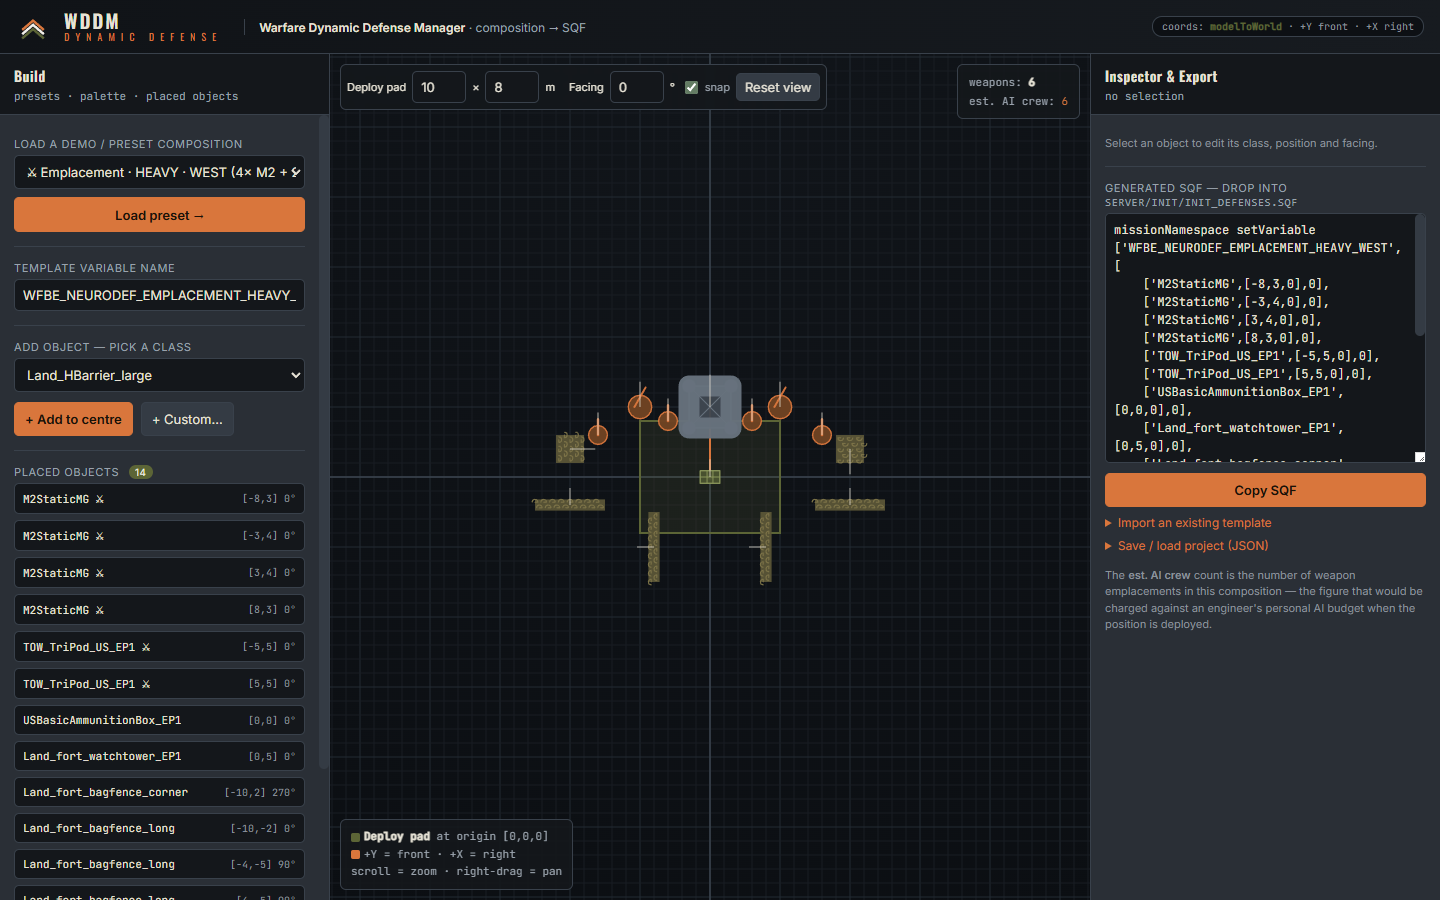
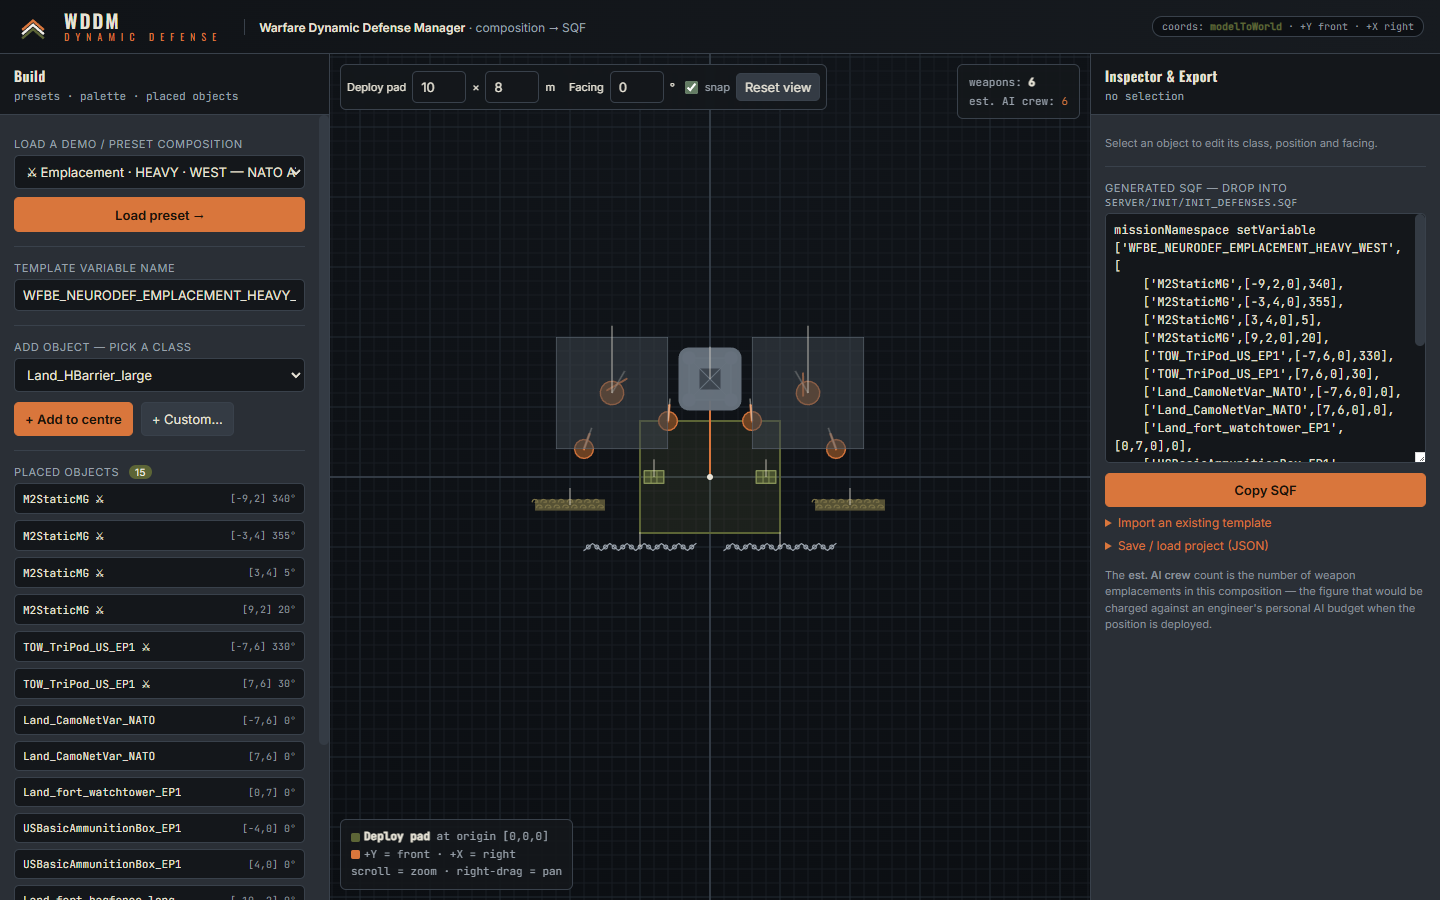
Rework all 16 presets to Cold War doctrine layouts
NATO/BLUFOR: dispersed & concealed — staggered guns in depth, camo nets
over high-value weapons, flank TOW ATGMs for oblique shots, thin wire.
WarPac/OPFOR: massed & belted — clustered guns in tight arcs, H-barrier
revetment boxes, deep frontal obstacle belts (wire + Czech hedgehogs).
East AT teched LIGHT SPG-9 -> HEAVY Metis. Gun counts unchanged so the
crew/AI-budget contract holds (AA/ARTY 2->4, EMP 3->6, CP 1->3).

diff --git a/index.html b/index.html
@@ -305,120 +305,122 @@ const PRESETS = {
     ['Land_HBarrier_large',[-9.5,2.5,0],90],['Land_HBarrier_large',[5,13,0],180],['Land_HBarrier_large',[-6,13,0],180]
   ]},
   // ===== AA BATTERY =====
-  aa_light_west: { name:'⚔ AA Battery · LIGHT · WEST (2× Stinger)', tpl:'WFBE_NEURODEF_AABATTERY_LIGHT_WEST', w:6, d:6, objs:[
-    ['Stinger_Pod_US_EP1',[-4,4,0],0],['Stinger_Pod_US_EP1',[4,4,0],0],
-    ['USLaunchersBox_EP1',[-4,1,0],0],['USLaunchersBox_EP1',[4,1,0],0],
-    ['Land_fort_bagfence_long',[-8,3,0],90],['Land_fort_bagfence_long',[8,3,0],90],
-    ['Land_fort_bagfence_long',[-4,-3,0],0],['Land_fort_bagfence_long',[4,-3,0],0],
-    ['Land_CamoNetVar_NATO',[0,4,0],0]
+  // ===== AA BATTERY =====  (NATO dispersed+concealed / WarPac massed+belted)
+  aa_light_west: { name:'⚔ AA · LIGHT · WEST — NATO dispersed Stinger', tpl:'WFBE_NEURODEF_AABATTERY_LIGHT_WEST', w:6, d:6, objs:[
+    ['Stinger_Pod_US_EP1',[-6,5,0],340],['Stinger_Pod_US_EP1',[6,5,0],20],
+    ['Land_fort_bagfence_round',[-6,5,0],0],['Land_fort_bagfence_round',[6,5,0],0],
+    ['USLaunchersBox_EP1',[-6,1,0],0],['USLaunchersBox_EP1',[6,1,0],0],
+    ['Land_CamoNetVar_NATO',[0,5,0],0],
+    ['Land_Razorwire',[-5,-3,0],0],['Land_Razorwire',[5,-3,0],0]
   ]},
-  aa_light_east: { name:'⚔ AA Battery · LIGHT · EAST (ZU-23 + Igla)', tpl:'WFBE_NEURODEF_AABATTERY_LIGHT_EAST', w:6, d:6, objs:[
-    ['ZU23_TK_EP1',[-5,4,0],0],['Igla_AA_pod_TK_EP1',[5,4,0],0],
-    ['TKVehicleBox_EP1',[-5,1,0],0],['TKVehicleBox_EP1',[5,1,0],0],
-    ['Land_fort_bagfence_long',[-9,3,0],90],['Land_fort_bagfence_long',[9,3,0],90],
-    ['Land_fort_bagfence_long',[-4,-6,0],0],['Land_fort_bagfence_long',[4,-6,0],0]
-  ]},
-  aa_heavy_west: { name:'⚔ AA Battery · HEAVY · WEST (4× Stinger)', tpl:'WFBE_NEURODEF_AABATTERY_HEAVY_WEST', w:8, d:8, objs:[
-    ['Stinger_Pod_US_EP1',[-6,5,0],0],['Stinger_Pod_US_EP1',[-2,6,0],0],['Stinger_Pod_US_EP1',[2,6,0],0],['Stinger_Pod_US_EP1',[6,5,0],0],
-    ['USLaunchersBox_EP1',[-4,1,0],0],['USLaunchersBox_EP1',[4,1,0],0],
-    ['Land_HBarrier_large',[-10,3,0],90],['Land_HBarrier_large',[10,3,0],90],
-    ['Land_HBarrier_large',[-5,-4,0],0],['Land_HBarrier_large',[5,-4,0],0],
-    ['Land_CamoNetVar_NATO',[0,5,0],0]
-  ]},
-  aa_heavy_east: { name:'⚔ AA Battery · HEAVY · EAST (2× ZU-23 + 2× Igla)', tpl:'WFBE_NEURODEF_AABATTERY_HEAVY_EAST', w:8, d:8, objs:[
-    ['ZU23_TK_EP1',[-7,5,0],0],['ZU23_TK_EP1',[7,5,0],0],['Igla_AA_pod_TK_EP1',[-3,6,0],0],['Igla_AA_pod_TK_EP1',[3,6,0],0],
+  aa_light_east: { name:'⚔ AA · LIGHT · EAST — WarPac ZU-23 + Igla belt', tpl:'WFBE_NEURODEF_AABATTERY_LIGHT_EAST', w:6, d:6, objs:[
+    ['ZU23_TK_EP1',[-4,4,0],0],['Igla_AA_pod_TK_EP1',[4,5,0],0],
     ['TKVehicleBox_EP1',[-4,1,0],0],['TKVehicleBox_EP1',[4,1,0],0],
-    ['Land_HBarrier_large',[-11,3,0],90],['Land_HBarrier_large',[11,3,0],90],
-    ['Land_HBarrier_large',[-5,-4,0],0],['Land_HBarrier_large',[5,-4,0],0]
+    ['Land_HBarrier_large',[-8,3,0],90],['Land_HBarrier_large',[8,3,0],90],['Land_HBarrier_large',[0,8,0],0],
+    ['Land_Razorwire',[-4,-3,0],0],['Land_Razorwire',[4,-3,0],0],['Hedgehog',[0,-3,0],0]
   ]},
-  // ===== ARTILLERY BATTERY =====
-  arty_light_west: { name:'⚔ Artillery · LIGHT · WEST (2× M119)', tpl:'WFBE_NEURODEF_ARTYBATTERY_LIGHT_WEST', w:8, d:8, objs:[
-    ['M119_US_EP1',[-5,3,0],0],['M119_US_EP1',[5,3,0],0],
-    ['USBasicAmmunitionBox_EP1',[-5,-1,0],0],['USBasicAmmunitionBox_EP1',[5,-1,0],0],
-    ['Land_HBarrier_large',[-11,2,0],90],['Land_HBarrier_large',[-11,8,0],90],
-    ['Land_HBarrier_large',[11,2,0],90],['Land_HBarrier_large',[11,8,0],90],
-    ['Land_HBarrier_large',[-6,-5,0],0],['Land_HBarrier_large',[0,-5,0],0],['Land_HBarrier_large',[6,-5,0],0]
+  aa_heavy_west: { name:'⚔ AA · HEAVY · WEST — NATO Stinger fan, dual camo', tpl:'WFBE_NEURODEF_AABATTERY_HEAVY_WEST', w:8, d:8, objs:[
+    ['Stinger_Pod_US_EP1',[-8,6,0],330],['Stinger_Pod_US_EP1',[-3,8,0],350],['Stinger_Pod_US_EP1',[3,8,0],10],['Stinger_Pod_US_EP1',[8,6,0],30],
+    ['Land_fort_bagfence_round',[-8,6,0],0],['Land_fort_bagfence_round',[8,6,0],0],
+    ['USLaunchersBox_EP1',[-5,2,0],0],['USLaunchersBox_EP1',[5,2,0],0],
+    ['Land_CamoNetVar_NATO',[-5,7,0],0],['Land_CamoNetVar_NATO',[5,7,0],0],
+    ['Land_Razorwire',[-4,-3,0],0],['Land_Razorwire',[4,-3,0],0]
   ]},
-  arty_light_east: { name:'⚔ Artillery · LIGHT · EAST (2× D-30)', tpl:'WFBE_NEURODEF_ARTYBATTERY_LIGHT_EAST', w:8, d:8, objs:[
-    ['D30_TK_EP1',[-5,3,0],0],['D30_TK_EP1',[5,3,0],0],
-    ['TKBasicAmmunitionBox_EP1',[-5,-1,0],0],['TKBasicAmmunitionBox_EP1',[5,-1,0],0],
-    ['Land_HBarrier_large',[-11,2,0],90],['Land_HBarrier_large',[-11,8,0],90],
-    ['Land_HBarrier_large',[11,2,0],90],['Land_HBarrier_large',[11,8,0],90],
-    ['Land_HBarrier_large',[-6,-5,0],0],['Land_HBarrier_large',[0,-5,0],0],['Land_HBarrier_large',[6,-5,0],0]
+  aa_heavy_east: { name:'⚔ AA · HEAVY · EAST — WarPac AA belt, walled box', tpl:'WFBE_NEURODEF_AABATTERY_HEAVY_EAST', w:8, d:8, objs:[
+    ['ZU23_TK_EP1',[-7,5,0],350],['ZU23_TK_EP1',[7,5,0],10],['Igla_AA_pod_TK_EP1',[-3,7,0],0],['Igla_AA_pod_TK_EP1',[3,7,0],0],
+    ['TKVehicleBox_EP1',[-5,2,0],0],['TKVehicleBox_EP1',[5,2,0],0],
+    ['Land_HBarrier_large',[-11,4,0],90],['Land_HBarrier_large',[11,4,0],90],
+    ['Land_HBarrier_large',[-6,-2,0],0],['Land_HBarrier_large',[0,-2,0],0],['Land_HBarrier_large',[6,-2,0],0],
+    ['Hedgehog',[-3,-5,0],0],['Hedgehog',[3,-5,0],0],['Land_Razorwire',[0,-6,0],0]
   ]},
-  arty_heavy_west: { name:'⚔ Artillery · HEAVY · WEST (4× M119)', tpl:'WFBE_NEURODEF_ARTYBATTERY_HEAVY_WEST', w:10, d:10, objs:[
-    ['M119_US_EP1',[-9,4,0],0],['M119_US_EP1',[-3,4,0],0],['M119_US_EP1',[3,4,0],0],['M119_US_EP1',[9,4,0],0],
-    ['USBasicAmmunitionBox_EP1',[-6,0,0],0],['USBasicAmmunitionBox_EP1',[6,0,0],0],
-    ['Land_HBarrier_large',[-14,3,0],90],['Land_HBarrier_large',[14,3,0],90],
-    ['Land_HBarrier_large',[-9,-3,0],0],['Land_HBarrier_large',[-3,-3,0],0],['Land_HBarrier_large',[3,-3,0],0],['Land_HBarrier_large',[9,-3,0],0]
+  // ===== ARTILLERY BATTERY =====  (NATO dispersed counterbattery / WarPac massed arc)
+  arty_light_west: { name:'⚔ Arty · LIGHT · WEST — NATO dispersed M119, camo', tpl:'WFBE_NEURODEF_ARTYBATTERY_LIGHT_WEST', w:8, d:8, objs:[
+    ['M119_US_EP1',[-6,3,0],0],['M119_US_EP1',[6,3,0],0],
+    ['USBasicAmmunitionBox_EP1',[-6,-1,0],0],['USBasicAmmunitionBox_EP1',[6,-1,0],0],
+    ['Land_CamoNetVar_NATO',[-6,3,0],0],['Land_CamoNetVar_NATO',[6,3,0],0],
+    ['Land_fort_bagfence_long',[-9,3,0],90],['Land_fort_bagfence_long',[9,3,0],90],
+    ['Land_fort_bagfence_long',[-6,-3,0],0],['Land_fort_bagfence_long',[6,-3,0],0]
   ]},
-  arty_heavy_east: { name:'⚔ Artillery · HEAVY · EAST (4× D-30)', tpl:'WFBE_NEURODEF_ARTYBATTERY_HEAVY_EAST', w:10, d:10, objs:[
-    ['D30_TK_EP1',[-9,4,0],0],['D30_TK_EP1',[-3,4,0],0],['D30_TK_EP1',[3,4,0],0],['D30_TK_EP1',[9,4,0],0],
+  arty_light_east: { name:'⚔ Arty · LIGHT · EAST — WarPac massed D-30, boxed', tpl:'WFBE_NEURODEF_ARTYBATTERY_LIGHT_EAST', w:8, d:8, objs:[
+    ['D30_TK_EP1',[-4,3,0],0],['D30_TK_EP1',[4,3,0],0],
+    ['TKBasicAmmunitionBox_EP1',[-4,-1,0],0],['TKBasicAmmunitionBox_EP1',[4,-1,0],0],
+    ['Land_HBarrier_large',[-8,2,0],90],['Land_HBarrier_large',[-8,8,0],90],['Land_HBarrier_large',[8,2,0],90],['Land_HBarrier_large',[8,8,0],90],
+    ['Land_HBarrier_large',[-3,-3,0],0],['Land_HBarrier_large',[3,-3,0],0],['Land_HBarrier_large',[0,9,0],0]
+  ]},
+  arty_heavy_west: { name:'⚔ Arty · HEAVY · WEST — NATO gun line in depth', tpl:'WFBE_NEURODEF_ARTYBATTERY_HEAVY_WEST', w:10, d:10, objs:[
+    ['M119_US_EP1',[-10,4,0],0],['M119_US_EP1',[-3,5,0],0],['M119_US_EP1',[3,5,0],0],['M119_US_EP1',[10,4,0],0],
+    ['USBasicAmmunitionBox_EP1',[-7,0,0],0],['USBasicAmmunitionBox_EP1',[0,0,0],0],['USBasicAmmunitionBox_EP1',[7,0,0],0],
+    ['Land_CamoNetVar_NATO',[-7,4,0],0],['Land_CamoNetVar_NATO',[7,4,0],0],
+    ['Land_fort_bagfence_long',[-13,3,0],90],['Land_fort_bagfence_long',[13,3,0],90],
+    ['Land_fort_bagfence_long',[-6,-3,0],0],['Land_fort_bagfence_long',[6,-3,0],0]
+  ]},
+  arty_heavy_east: { name:'⚔ Arty · HEAVY · EAST — WarPac battery arc, revetted', tpl:'WFBE_NEURODEF_ARTYBATTERY_HEAVY_EAST', w:10, d:10, objs:[
+    ['D30_TK_EP1',[-9,4,0],10],['D30_TK_EP1',[-3,5,0],3],['D30_TK_EP1',[3,5,0],357],['D30_TK_EP1',[9,4,0],350],
     ['TKBasicAmmunitionBox_EP1',[-6,0,0],0],['TKBasicAmmunitionBox_EP1',[6,0,0],0],
-    ['Land_HBarrier_large',[-14,3,0],90],['Land_HBarrier_large',[14,3,0],90],
-    ['Land_HBarrier_large',[-9,-3,0],0],['Land_HBarrier_large',[-3,-3,0],0],['Land_HBarrier_large',[3,-3,0],0],['Land_HBarrier_large',[9,-3,0],0]
+    ['Land_HBarrier_large',[-13,3,0],90],['Land_HBarrier_large',[13,3,0],90],
+    ['Land_HBarrier_large',[-9,-2,0],0],['Land_HBarrier_large',[-3,-2,0],0],['Land_HBarrier_large',[3,-2,0],0],['Land_HBarrier_large',[9,-2,0],0],['Land_HBarrier_large',[0,9,0],0]
   ]},
-  // ===== WEAPONS EMPLACEMENT =====
-  emp_light_west: { name:'⚔ Emplacement · LIGHT · WEST (2× M2 + TOW)', tpl:'WFBE_NEURODEF_EMPLACEMENT_LIGHT_WEST', w:8, d:6, objs:[
-    ['M2StaticMG',[-5,3,0],0],['M2StaticMG',[5,3,0],0],['TOW_TriPod_US_EP1',[0,4,0],0],
-    ['USBasicAmmunitionBox_EP1',[0,0,0],0],
-    ['Land_fort_bagfence_corner',[-7,2,0],270],['Land_fort_bagfence_long',[-7,-2,0],0],
-    ['Land_fort_bagfence_long',[-2,-4,0],90],['Land_fort_bagfence_long',[2,-4,0],90],
-    ['Land_fort_bagfence_long',[7,-2,0],0],['Land_fort_bagfence_corner',[7,2,0],180]
+  // ===== WEAPONS EMPLACEMENT =====  (NATO ATGM standoff / WarPac strongpoint)
+  emp_light_west: { name:'⚔ Emplacement · LIGHT · WEST — NATO TOW overwatch', tpl:'WFBE_NEURODEF_EMPLACEMENT_LIGHT_WEST', w:8, d:6, objs:[
+    ['M2StaticMG',[-6,2,0],330],['M2StaticMG',[6,2,0],30],['TOW_TriPod_US_EP1',[0,6,0],0],
+    ['Land_CamoNetVar_NATO',[0,6,0],0],['USBasicAmmunitionBox_EP1',[0,3,0],0],
+    ['Land_fort_bagfence_corner',[-8,1,0],270],['Land_fort_bagfence_long',[-8,-3,0],0],
+    ['Land_fort_bagfence_long',[8,-3,0],0],['Land_fort_bagfence_corner',[8,1,0],180],['Land_Razorwire',[0,-5,0],0]
   ]},
-  emp_light_east: { name:'⚔ Emplacement · LIGHT · EAST (2× DShKM + Metis)', tpl:'WFBE_NEURODEF_EMPLACEMENT_LIGHT_EAST', w:8, d:6, objs:[
-    ['DSHKM_TK_INS_EP1',[-5,3,0],0],['DSHKM_TK_INS_EP1',[5,3,0],0],['Metis_TK_EP1',[0,4,0],0],
+  emp_light_east: { name:'⚔ Emplacement · LIGHT · EAST — WarPac DShKM + SPG-9', tpl:'WFBE_NEURODEF_EMPLACEMENT_LIGHT_EAST', w:8, d:6, objs:[
+    ['DSHKM_TK_INS_EP1',[-4,4,0],0],['DSHKM_TK_INS_EP1',[4,4,0],0],['SPG9_TK_INS_EP1',[0,3,0],0],
     ['TKBasicAmmunitionBox_EP1',[0,0,0],0],
-    ['Land_fort_bagfence_corner',[-7,2,0],270],['Land_fort_bagfence_long',[-7,-2,0],0],
-    ['Land_fort_bagfence_long',[-2,-4,0],90],['Land_fort_bagfence_long',[2,-4,0],90],
-    ['Land_fort_bagfence_long',[7,-2,0],0],['Land_fort_bagfence_corner',[7,2,0],180]
+    ['Land_fort_bagfence_long',[-7,2,0],90],['Land_fort_bagfence_long',[7,2,0],90],
+    ['Land_fort_bagfence_long',[-3,-2,0],0],['Land_fort_bagfence_long',[3,-2,0],0],
+    ['Land_Razorwire',[-4,-4,0],0],['Land_Razorwire',[4,-4,0],0],['Hedgehog',[0,-4,0],0]
   ]},
-  emp_heavy_west: { name:'⚔ Emplacement · HEAVY · WEST (4× M2 + 2× TOW)', tpl:'WFBE_NEURODEF_EMPLACEMENT_HEAVY_WEST', w:10, d:8, objs:[
-    ['M2StaticMG',[-8,3,0],0],['M2StaticMG',[-3,4,0],0],['M2StaticMG',[3,4,0],0],['M2StaticMG',[8,3,0],0],
-    ['TOW_TriPod_US_EP1',[-5,5,0],0],['TOW_TriPod_US_EP1',[5,5,0],0],
-    ['USBasicAmmunitionBox_EP1',[0,0,0],0],['Land_fort_watchtower_EP1',[0,5,0],0],
-    ['Land_fort_bagfence_corner',[-10,2,0],270],['Land_fort_bagfence_long',[-10,-2,0],0],
-    ['Land_fort_bagfence_long',[-4,-5,0],90],['Land_fort_bagfence_long',[4,-5,0],90],
-    ['Land_fort_bagfence_long',[10,-2,0],0],['Land_fort_bagfence_corner',[10,2,0],180]
+  emp_heavy_west: { name:'⚔ Emplacement · HEAVY · WEST — NATO AT screen (flank TOW)', tpl:'WFBE_NEURODEF_EMPLACEMENT_HEAVY_WEST', w:10, d:8, objs:[
+    ['M2StaticMG',[-9,2,0],340],['M2StaticMG',[-3,4,0],355],['M2StaticMG',[3,4,0],5],['M2StaticMG',[9,2,0],20],
+    ['TOW_TriPod_US_EP1',[-7,6,0],330],['TOW_TriPod_US_EP1',[7,6,0],30],
+    ['Land_CamoNetVar_NATO',[-7,6,0],0],['Land_CamoNetVar_NATO',[7,6,0],0],['Land_fort_watchtower_EP1',[0,7,0],0],
+    ['USBasicAmmunitionBox_EP1',[-4,0,0],0],['USBasicAmmunitionBox_EP1',[4,0,0],0],
+    ['Land_fort_bagfence_long',[-10,-2,0],0],['Land_fort_bagfence_long',[10,-2,0],0],
+    ['Land_Razorwire',[-5,-5,0],0],['Land_Razorwire',[5,-5,0],0]
   ]},
-  emp_heavy_east: { name:'⚔ Emplacement · HEAVY · EAST (4× DShKM + 2× Metis)', tpl:'WFBE_NEURODEF_EMPLACEMENT_HEAVY_EAST', w:10, d:8, objs:[
-    ['DSHKM_TK_INS_EP1',[-8,3,0],0],['DSHKM_TK_INS_EP1',[-3,4,0],0],['DSHKM_TK_INS_EP1',[3,4,0],0],['DSHKM_TK_INS_EP1',[8,3,0],0],
-    ['Metis_TK_EP1',[-5,5,0],0],['Metis_TK_EP1',[5,5,0],0],
-    ['TKBasicAmmunitionBox_EP1',[0,0,0],0],['Land_fort_watchtower_EP1',[0,5,0],0],
-    ['Land_fort_bagfence_corner',[-10,2,0],270],['Land_fort_bagfence_long',[-10,-2,0],0],
-    ['Land_fort_bagfence_long',[-4,-5,0],90],['Land_fort_bagfence_long',[4,-5,0],90],
-    ['Land_fort_bagfence_long',[10,-2,0],0],['Land_fort_bagfence_corner',[10,2,0],180]
+  emp_heavy_east: { name:'⚔ Emplacement · HEAVY · EAST — WarPac strongpoint, belt', tpl:'WFBE_NEURODEF_EMPLACEMENT_HEAVY_EAST', w:10, d:8, objs:[
+    ['DSHKM_TK_INS_EP1',[-7,5,0],350],['DSHKM_TK_INS_EP1',[-2,5,0],0],['DSHKM_TK_INS_EP1',[2,5,0],0],['DSHKM_TK_INS_EP1',[7,5,0],10],
+    ['Metis_TK_EP1',[-4,2,0],0],['Metis_TK_EP1',[4,2,0],0],['Land_fort_watchtower_EP1',[0,6,0],0],
+    ['TKBasicAmmunitionBox_EP1',[0,0,0],0],
+    ['Land_HBarrier_large',[-10,3,0],90],['Land_HBarrier_large',[10,3,0],90],
+    ['Land_fort_bagfence_long',[-5,-2,0],0],['Land_fort_bagfence_long',[5,-2,0],0],
+    ['Hedgehog',[-6,-5,0],0],['Hedgehog',[0,-5,0],0],['Hedgehog',[6,-5,0],0],
+    ['Land_Razorwire',[-3,-6,0],0],['Land_Razorwire',[3,-6,0],0]
   ]},
-  // ===== CHECKPOINT =====
-  cp_light_west: { name:'⚔ Checkpoint · LIGHT · WEST (chicane + M2)', tpl:'WFBE_NEURODEF_CHECKPOINT_LIGHT_WEST', w:10, d:8, objs:[
+  // ===== CHECKPOINT =====  (NATO serpentine VCP / WarPac concrete border post)
+  cp_light_west: { name:'⚔ Checkpoint · LIGHT · WEST — NATO VCP serpentine', tpl:'WFBE_NEURODEF_CHECKPOINT_LIGHT_WEST', w:10, d:8, objs:[
     ['Land_CncBlock_Stripes',[-4,7,0],0],['Land_CncBlock_Stripes',[-2,7,0],0],['Land_CncBlock_Stripes',[0,7,0],0],
-    ['Land_CncBlock_Stripes',[4,1,0],0],['Land_CncBlock_Stripes',[2,1,0],0],['Land_CncBlock_Stripes',[0,1,0],0],
-    ['RoadCone_L_EP1',[2,10,0],0],['RoadCone_L_EP1',[-4,4,0],0],
-    ['Land_fort_watchtower_EP1',[6,3,0],270],['M2StaticMG',[6,8,0],300],
-    ['Land_HBarrier_large',[-7,4,0],90],['Land_HBarrier_large',[8,-1,0],90]
+    ['Land_CncBlock_Stripes',[4,2,0],0],['Land_CncBlock_Stripes',[2,2,0],0],['Land_CncBlock_Stripes',[0,2,0],0],
+    ['RoadCone_L_EP1',[1,9,0],0],['RoadCone_L_EP1',[-3,5,0],0],['RoadCone_L_EP1',[3,0,0],0],
+    ['Land_fort_watchtower_EP1',[6,4,0],270],['M2StaticMG',[6,5,0],270],['Land_fort_bagfence_round',[6,5,0],0],
+    ['Land_HBarrier_large',[-7,4,0],90]
   ]},
-  cp_light_east: { name:'⚔ Checkpoint · LIGHT · EAST (chicane + DShKM)', tpl:'WFBE_NEURODEF_CHECKPOINT_LIGHT_EAST', w:10, d:8, objs:[
+  cp_light_east: { name:'⚔ Checkpoint · LIGHT · EAST — WarPac border post', tpl:'WFBE_NEURODEF_CHECKPOINT_LIGHT_EAST', w:10, d:8, objs:[
     ['Land_CncBlock_Stripes',[-4,7,0],0],['Land_CncBlock_Stripes',[-2,7,0],0],['Land_CncBlock_Stripes',[0,7,0],0],
-    ['Land_CncBlock_Stripes',[4,1,0],0],['Land_CncBlock_Stripes',[2,1,0],0],['Land_CncBlock_Stripes',[0,1,0],0],
-    ['RoadCone_L_EP1',[2,10,0],0],['RoadCone_L_EP1',[-4,4,0],0],
-    ['Land_fort_watchtower_EP1',[6,3,0],270],['DSHKM_TK_INS_EP1',[6,8,0],300],
-    ['Land_HBarrier_large',[-7,4,0],90],['Land_HBarrier_large',[8,-1,0],90]
-  ]},
-  cp_heavy_west: { name:'⚔ Checkpoint · HEAVY · WEST (2 towers, 2× M2 + TOW)', tpl:'WFBE_NEURODEF_CHECKPOINT_HEAVY_WEST', w:12, d:10, objs:[
-    ['Land_CncBlock_Stripes',[-4,8,0],0],['Land_CncBlock_Stripes',[-2,8,0],0],['Land_CncBlock_Stripes',[0,8,0],0],
     ['Land_CncBlock_Stripes',[4,2,0],0],['Land_CncBlock_Stripes',[2,2,0],0],['Land_CncBlock_Stripes',[0,2,0],0],
-    ['RoadCone_L_EP1',[2,11,0],0],['RoadCone_L_EP1',[-4,5,0],0],
-    ['Land_fort_watchtower_EP1',[7,4,0],270],['Land_fort_watchtower_EP1',[-7,4,0],90],
-    ['M2StaticMG',[7,9,0],300],['M2StaticMG',[-7,9,0],60],['TOW_TriPod_US_EP1',[0,-2,0],180],
-    ['Land_HBarrier_large',[-9,5,0],90],['Land_HBarrier_large',[10,0,0],90]
+    ['Land_CncBlock',[-6,4,0],0],['Land_CncBlock',[6,4,0],0],
+    ['Land_fort_watchtower_EP1',[6,5,0],270],['DSHKM_TK_INS_EP1',[6,6,0],270],
+    ['Land_HBarrier_large',[-7,4,0],90],['Land_Razorwire',[0,-2,0],0]
   ]},
-  cp_heavy_east: { name:'⚔ Checkpoint · HEAVY · EAST (2 towers, 2× DShKM + Metis)', tpl:'WFBE_NEURODEF_CHECKPOINT_HEAVY_EAST', w:12, d:10, objs:[
+  cp_heavy_west: { name:'⚔ Checkpoint · HEAVY · WEST — NATO hardened VCP', tpl:'WFBE_NEURODEF_CHECKPOINT_HEAVY_WEST', w:12, d:10, objs:[
     ['Land_CncBlock_Stripes',[-4,8,0],0],['Land_CncBlock_Stripes',[-2,8,0],0],['Land_CncBlock_Stripes',[0,8,0],0],
-    ['Land_CncBlock_Stripes',[4,2,0],0],['Land_CncBlock_Stripes',[2,2,0],0],['Land_CncBlock_Stripes',[0,2,0],0],
-    ['RoadCone_L_EP1',[2,11,0],0],['RoadCone_L_EP1',[-4,5,0],0],
-    ['Land_fort_watchtower_EP1',[7,4,0],270],['Land_fort_watchtower_EP1',[-7,4,0],90],
-    ['DSHKM_TK_INS_EP1',[7,9,0],300],['DSHKM_TK_INS_EP1',[-7,9,0],60],['Metis_TK_EP1',[0,-2,0],180],
-    ['Land_HBarrier_large',[-9,5,0],90],['Land_HBarrier_large',[10,0,0],90]
+    ['Land_CncBlock_Stripes',[4,3,0],0],['Land_CncBlock_Stripes',[2,3,0],0],['Land_CncBlock_Stripes',[0,3,0],0],
+    ['RoadCone_L_EP1',[1,10,0],0],['RoadCone_L_EP1',[3,1,0],0],
+    ['Land_fort_watchtower_EP1',[7,5,0],270],['Land_fort_watchtower_EP1',[-7,5,0],90],
+    ['M2StaticMG',[7,6,0],270],['M2StaticMG',[-7,6,0],90],['TOW_TriPod_US_EP1',[0,-3,0],180],['Land_CamoNetVar_NATO',[0,-3,0],0],
+    ['Land_HBarrier_large',[-9,5,0],90],['Land_HBarrier_large',[10,1,0],90]
+  ]},
+  cp_heavy_east: { name:'⚔ Checkpoint · HEAVY · EAST — WarPac fortified post', tpl:'WFBE_NEURODEF_CHECKPOINT_HEAVY_EAST', w:12, d:10, objs:[
+    ['Land_CncBlock_Stripes',[-4,8,0],0],['Land_CncBlock_Stripes',[-2,8,0],0],['Land_CncBlock_Stripes',[0,8,0],0],
+    ['Land_CncBlock_Stripes',[4,3,0],0],['Land_CncBlock_Stripes',[2,3,0],0],['Land_CncBlock_Stripes',[0,3,0],0],
+    ['Land_CncBlock',[-7,6,0],0],['Land_CncBlock',[7,6,0],0],
+    ['Land_fort_watchtower_EP1',[7,5,0],270],['Land_fort_watchtower_EP1',[-7,5,0],90],
+    ['DSHKM_TK_INS_EP1',[7,7,0],270],['DSHKM_TK_INS_EP1',[-7,7,0],90],['Metis_TK_EP1',[0,-3,0],180],
+    ['Hedgehog',[-3,-5,0],0],['Hedgehog',[3,-5,0],0],['Land_Razorwire',[0,-6,0],0],['Land_HBarrier_large',[-9,5,0],90]
   ]},
   blank: { name:'— Blank canvas —', tpl:'WFBE_NEURODEF_CUSTOM_WALLS', w:10, d:10, objs:[] },
 };